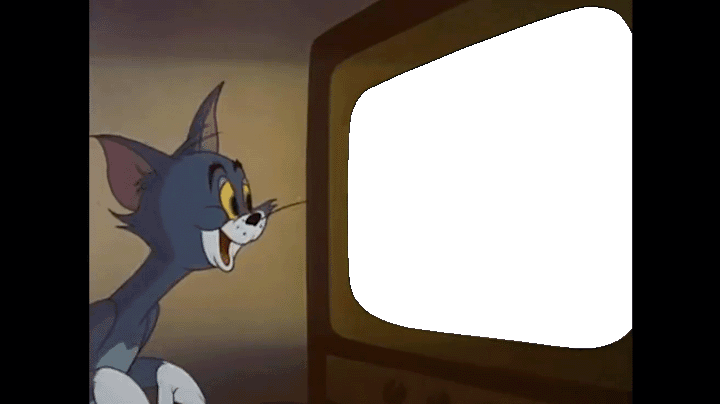
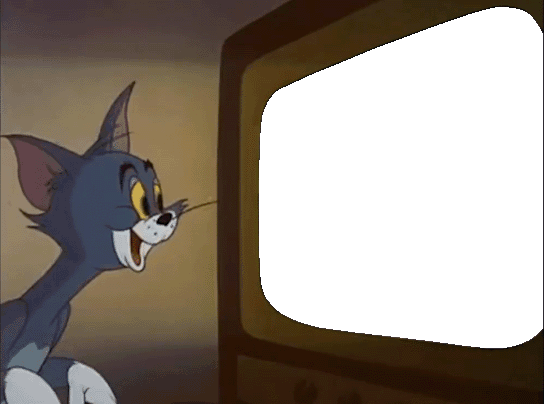
adjust watch_tv

diff --git a/meme_generator/memes/watch_tv/__init__.py b/meme_generator/memes/watch_tv/__init__.py
@@ -10,30 +10,13 @@ img_dir = Path(__file__).parent / "images"
 
 
 def watch_tv(images: List[BuildImage], texts, args):
-    params = (
-        (((0, 75), (290, -15), (290, 355), (0, 330)), (347, 3)),
-        (((0, 75), (290, -15), (290, 355), (0, 330)), (347, 3)),
-        (((0, 75), (290, -15), (290, 355), (0, 330)), (347, 3)),
-        (((0, 75), (290, -15), (290, 355), (0, 330)), (347, 3)),
-        (((0, 75), (290, -15), (290, 355), (0, 330)), (347, 3)),
-        (((0, 75), (290, -15), (290, 355), (0, 330)), (347, 3)),
-        (((0, 75), (290, -15), (290, 355), (0, 330)), (347, 3)),
-        (((0, 75), (290, -15), (290, 355), (0, 330)), (347, 3)),
-        (((0, 75), (290, -15), (290, 355), (0, 330)), (347, 3)),
-        (((0, 75), (290, -15), (290, 355), (0, 330)), (347, 3)),
-        (((0, 75), (290, -15), (290, 355), (0, 330)), (347, 3)),
-        (((0, 75), (290, -15), (290, 355), (0, 330)), (347, 3)),
-    )
-
     def maker(i: int) -> Maker:
         def make(img: BuildImage) -> BuildImage:
-            frame = BuildImage.new("RGBA", (720, 405), "white")
-            img = images[0].convert("RGBA").resize((291, 355), keep_ratio=True)
+            img = img.convert("RGBA").resize((400, 350), keep_ratio=True)
+            img = img.perspective(((0, 100), (290, 0), (290, 370), (0, 335)))
             bg = BuildImage.open(img_dir / f"{i}.png")
-            frame.paste(bg, (0, 0))
-            points, pos = params[i]
-            frame.paste(img.perspective(points), pos, below=True)
-
+            frame = BuildImage.new("RGBA", bg.size, "white")
+            frame.paste(bg).paste(img, (258, -12), below=True)
             return frame
 
         return make
